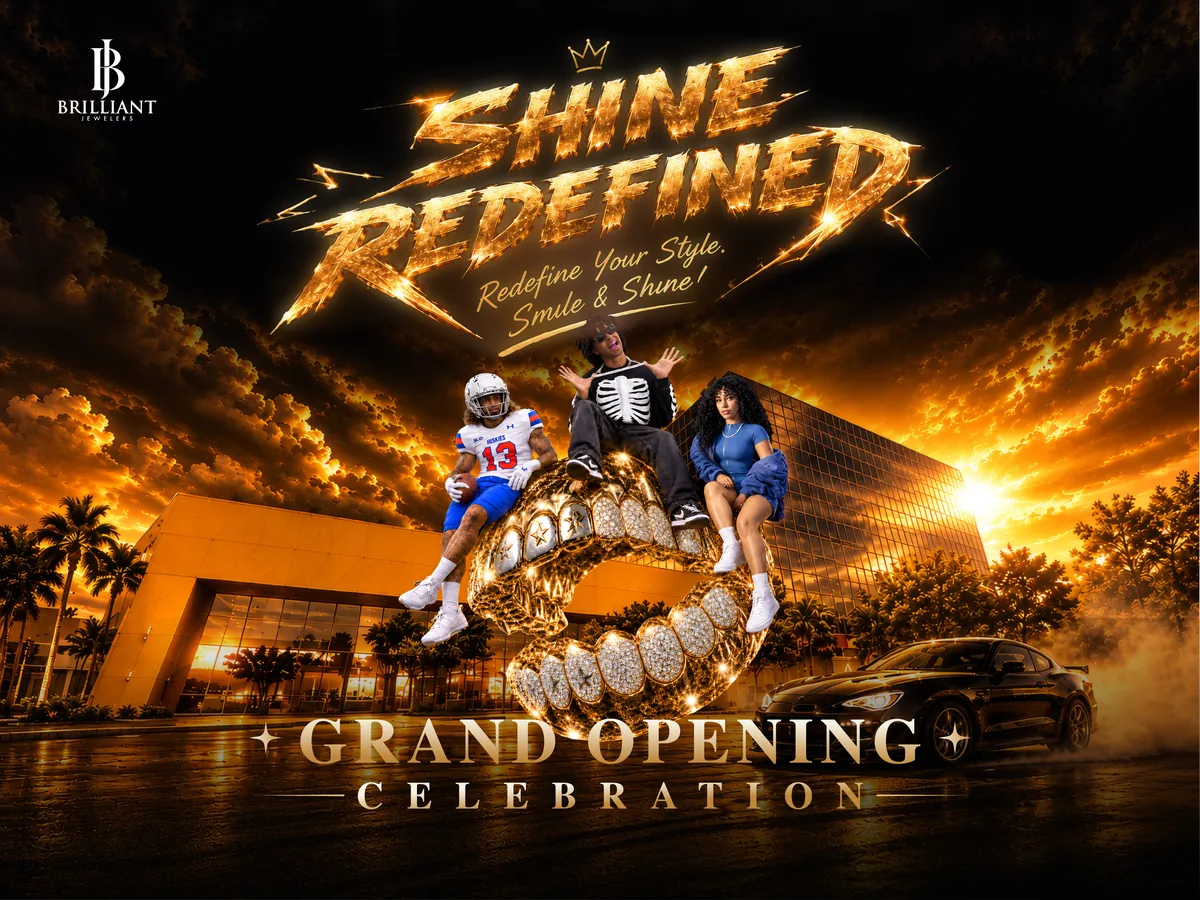
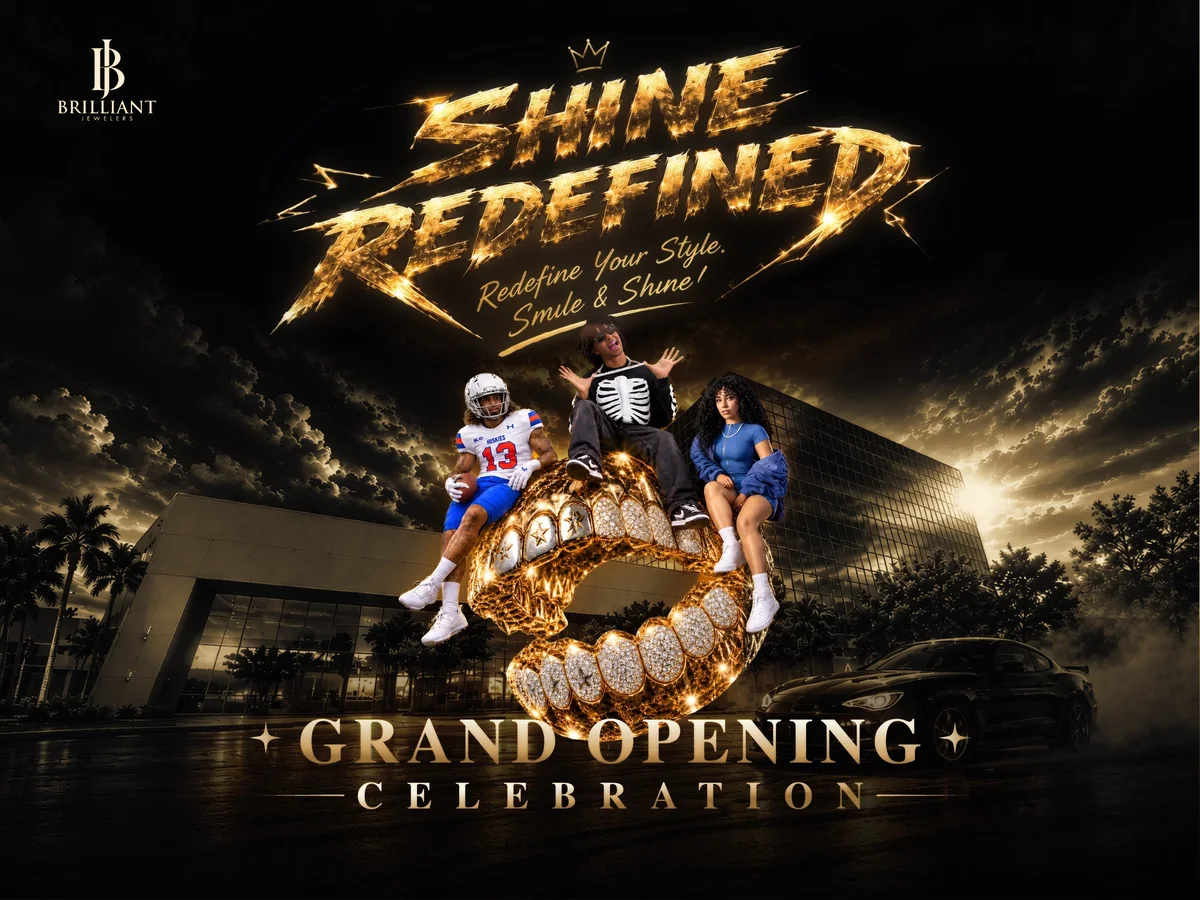
Sửa mục 8-10 file góp ý: dòng chữ đứng yên font Cinzel lấp lánh, key visual bản đen vàng nhạt (anh Khoa chọn), thanh ưu đãi dưới đáy chữ to hơn (#15)
Claude-Session: https://claude.ai/code/session_01RMZhtpa79ej3qVQCyLqzDi

diff --git a/index.html b/index.html
@@ -32,7 +32,7 @@
   "description": "Live hip-hop, lion dance, car show and DJ. Buy Upper, Get Lower FREE and 50% off grillz, one day only."
 }
 </script>
-<link href="https://fonts.googleapis.com/css2?family=Knewave&family=Kanit:ital,wght@0,500;0,700;1,700;1,800;1,900&family=Montserrat:wght@400;500;600;700&family=Yellowtail&display=swap" rel="stylesheet">
+<link href="https://fonts.googleapis.com/css2?family=Cinzel:wght@700;900&family=Kanit:ital,wght@0,500;0,700;1,700;1,800;1,900&family=Montserrat:wght@400;500;600;700&family=Yellowtail&display=swap" rel="stylesheet">
 <style>
   /* Mood: Houston street at night, chrome and gold like a car show, diamonds as the sparkle.
      Kanit heavy italic for titles (racing, Fast & Furious feel), Montserrat for text, Yellowtail only as a small accent from the key visual. */
@@ -60,7 +60,7 @@
   }
   *, *::before, *::after { box-sizing: border-box; }
   html { overflow-x: clip; scroll-behavior: smooth; -webkit-text-size-adjust: 100%; scroll-padding-top: 64px; }
-  body { margin: 0; background: var(--bg); color: var(--text); font: 400 16px/1.6 var(--sans); -webkit-font-smoothing: antialiased; overflow-x: clip; padding-bottom: 72px; }
+  body { margin: 0; background: var(--bg); color: var(--text); font: 400 16px/1.6 var(--sans); -webkit-font-smoothing: antialiased; overflow-x: clip; padding-bottom: 104px; }
   a { color: inherit; }
   h1, h2, h3, p, ol, ul, dl, dd, figure, blockquote { margin: 0; }
   button, input, select { font: inherit; color: inherit; }
@@ -106,11 +106,14 @@
   .when .g { background: var(--gold-text); -webkit-background-clip: text; background-clip: text; color: transparent; }
   .when small { display: block; font: 500 13px/1.5 var(--sans); font-style: normal; letter-spacing: .08em; color: var(--muted); text-transform: none; }
 
-  /* Offer ticker: the hook, always moving */
-  .ticker { overflow: hidden; background: #0A0A0B; border-block: 1px solid rgba(226, 178, 76, .55); margin-top: 8px; }
-  .ticker .track { display: flex; align-items: center; height: 50px; width: max-content; animation: tick 32s linear infinite; }
-  .ticker span { padding: 0 .15em; font: 400 22px/1 "Knewave", var(--title); text-transform: uppercase; white-space: nowrap; background: url(/assets/tex-gold-foil.webp) center / cover; -webkit-background-clip: text; background-clip: text; color: transparent; filter: drop-shadow(0 0 1px rgba(255, 240, 190, .9)) drop-shadow(0 0 6px rgba(255, 150, 20, .6)); }
-  .ticker i { width: 9px; height: 9px; margin: 0 22px; flex: none; background: #FFF4C8; clip-path: polygon(50% 0, 100% 50%, 50% 100%, 0 50%); }
+  /* Highlights: one still row, logo serif in sparkling gold */
+  .highlights { display: flex; flex-wrap: wrap; justify-content: center; align-items: center; gap: 10px 0; margin: 4px auto 0; padding: 10px var(--gutter) 6px; list-style: none; }
+  @media (min-width: 901px) { .highlights { flex-wrap: nowrap; } }
+  .highlights li { display: flex; align-items: center; font: 900 clamp(14px, 1.4vw, 24px)/1.2 "Cinzel", Georgia, serif; letter-spacing: .04em; text-transform: uppercase; white-space: nowrap; }
+  .highlights li span { background: linear-gradient(100deg, #B8924A 0%, #E9CB66 30%, #FFF6D6 45%, #E9CB66 60%, #B8924A 100%) 0 0 / 250% 100%; -webkit-background-clip: text; background-clip: text; color: transparent; animation: shimmer 4.5s linear infinite; }
+  .highlights li:nth-child(2n) span { animation-delay: -1.5s; }
+  .highlights li + li::before { content: ""; width: 7px; height: 7px; margin: 0 clamp(12px, 1.3vw, 22px); background: #E9CB66; transform: rotate(45deg); }
+  @keyframes shimmer { from { background-position: 100% 0; } to { background-position: -150% 0; } }
   @keyframes tick { to { transform: translateX(-50%); } }
 
   /* 2 · Guests: coverflow, tap to open */
@@ -250,10 +253,11 @@
   .guest-pop .txt .btn { margin: 0 8px 8px 0; }
 
   /* Sticky offer bar: the hook stays on screen */
-  .dock { position: fixed; z-index: 40; left: 0; right: 0; bottom: 0; display: flex; align-items: center; justify-content: center; gap: 12px 20px; padding: 10px var(--gutter) calc(10px + env(safe-area-inset-bottom)); background: rgba(10, 10, 11, .94); backdrop-filter: blur(10px); -webkit-backdrop-filter: blur(10px); border-top: 1px solid rgba(226, 178, 76, .4); transform: translateY(110%); transition: transform .4s var(--ease); }
+  .dock { position: fixed; z-index: 40; left: 0; right: 0; bottom: 0; display: flex; align-items: center; justify-content: center; gap: 12px 28px; padding: 14px var(--gutter) calc(14px + env(safe-area-inset-bottom)); background: linear-gradient(180deg, rgba(28, 22, 10, .97), rgba(10, 10, 11, .97)); box-shadow: 0 -10px 40px -10px rgba(226, 178, 76, .35); backdrop-filter: blur(10px); -webkit-backdrop-filter: blur(10px); border-top: 2px solid rgba(226, 178, 76, .8); transform: translateY(110%); transition: transform .4s var(--ease); }
   .dock.show { transform: none; }
-  .dock p { font: italic 800 clamp(13px, 1.5vw, 17px)/1.2 var(--title); text-transform: uppercase; color: var(--fg); }
-  .dock p .g { background: var(--gold-text); -webkit-background-clip: text; background-clip: text; color: transparent; }
+  .dock p { font: italic 900 clamp(16px, 2.1vw, 28px)/1.15 var(--title); text-transform: uppercase; color: var(--fg); }
+  .dock p small { display: block; margin-top: 2px; font: 600 clamp(11px, 1vw, 13px)/1.3 var(--sans); font-style: normal; letter-spacing: .14em; color: var(--muted); }
+  .dock p .g { padding-right: .1em; background: var(--gold-text); -webkit-background-clip: text; background-clip: text; color: transparent; }
 
   /* Footer */
   .site-foot { padding: clamp(48px, 6vw, 72px) 0 28px; border-top: 1px solid var(--line); text-align: center; }
@@ -290,7 +294,13 @@
     .guest-pop video { width: 100%; height: 52vh; max-height: 52vh; aspect-ratio: auto; }
     .guest-pop .txt { padding: 4px 22px 26px; text-align: center; }
     .agenda li { grid-template-columns: 1fr; gap: 0; }
-    .dock { justify-content: space-between; }
+    .dock { justify-content: space-between; gap: 10px; }
+    .highlights { display: grid; grid-template-columns: 1fr 1fr; gap: 8px 10px; padding-top: 6px; }
+    .highlights li { justify-content: center; font-size: 17px; }
+    .highlights li:nth-child(-n+2) { grid-column: 1 / -1; font-size: 19px; }
+    .highlights li + li::before { display: none; }
+    .dock .btn { min-height: 44px; padding: 0 16px; font-size: 13px; flex: none; }
+    .dock p small { display: none; }
     /* Phone: keep the page short, everything slides sideways */
     section { padding: 36px 0; }
     .title { font-size: 40px; }
@@ -347,10 +357,9 @@
     <button class="btn btn-solid" type="button" data-open-rsvp>RSVP now</button>
     <a class="btn" href="https://maps.app.goo.gl/rG756HiFMuE4MmCT8" target="_blank" rel="noopener">Directions</a>
   </div>
-  <div class="ticker" aria-hidden="true"><div class="track">
-    <span>Buy Upper, Get Lower FREE</span><i></i><span>50% Off Grillz</span><i></i><span>Live Hip-Hop</span><i></i><span>Lion Dance</span><i></i><span>Car Show</span><i></i><span>DJ</span><i></i>
-    <span>Buy Upper, Get Lower FREE</span><i></i><span>50% Off Grillz</span><i></i><span>Live Hip-Hop</span><i></i><span>Lion Dance</span><i></i><span>Car Show</span><i></i><span>DJ</span><i></i>
-  </div></div>
+  <ul class="highlights">
+    <li><span>Buy Upper, Get Lower Free</span></li><li><span>50% Off Grillz</span></li><li><span>Live Hip-Hop</span></li><li><span>Lion Dance</span></li><li><span>Car Show</span></li><li><span>DJ</span></li>
+  </ul>
 </section>
 
 <!-- 2 · Guests -->
@@ -506,8 +515,8 @@
 
 <!-- Sticky offer bar -->
 <div class="dock" id="dock">
-  <p><span class="g">Buy Upper, Get Lower FREE</span> · 50% off grillz · 12.12</p>
-  <button class="btn btn-solid btn-sm" type="button" data-open-rsvp>RSVP</button>
+  <p><span class="g">Buy Upper, Get Lower FREE</span> + 50% off grillz<small>Dec 12 only · RSVP required</small></p>
+  <button class="btn btn-solid" type="button" data-open-rsvp>RSVP to claim</button>
 </div>
 
 <!-- Guest popup -->
